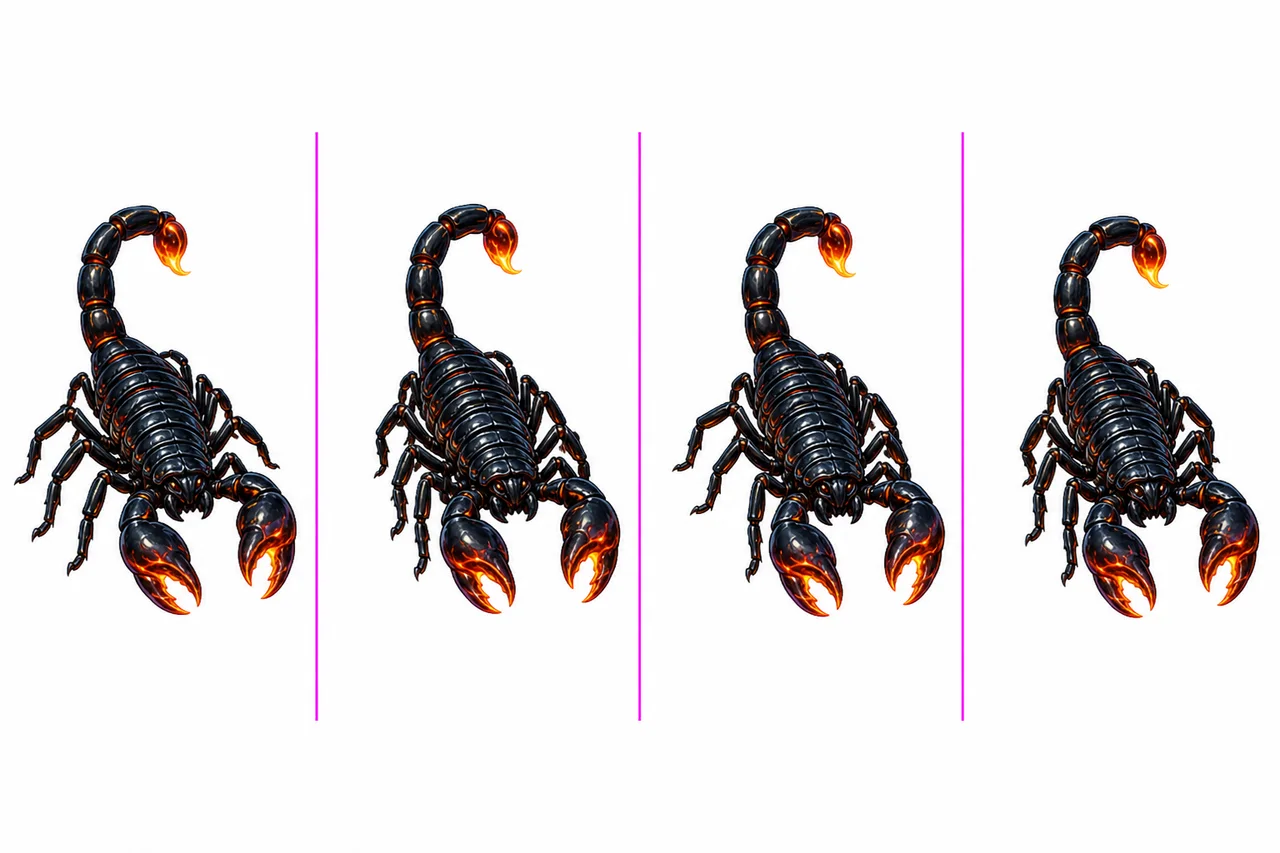
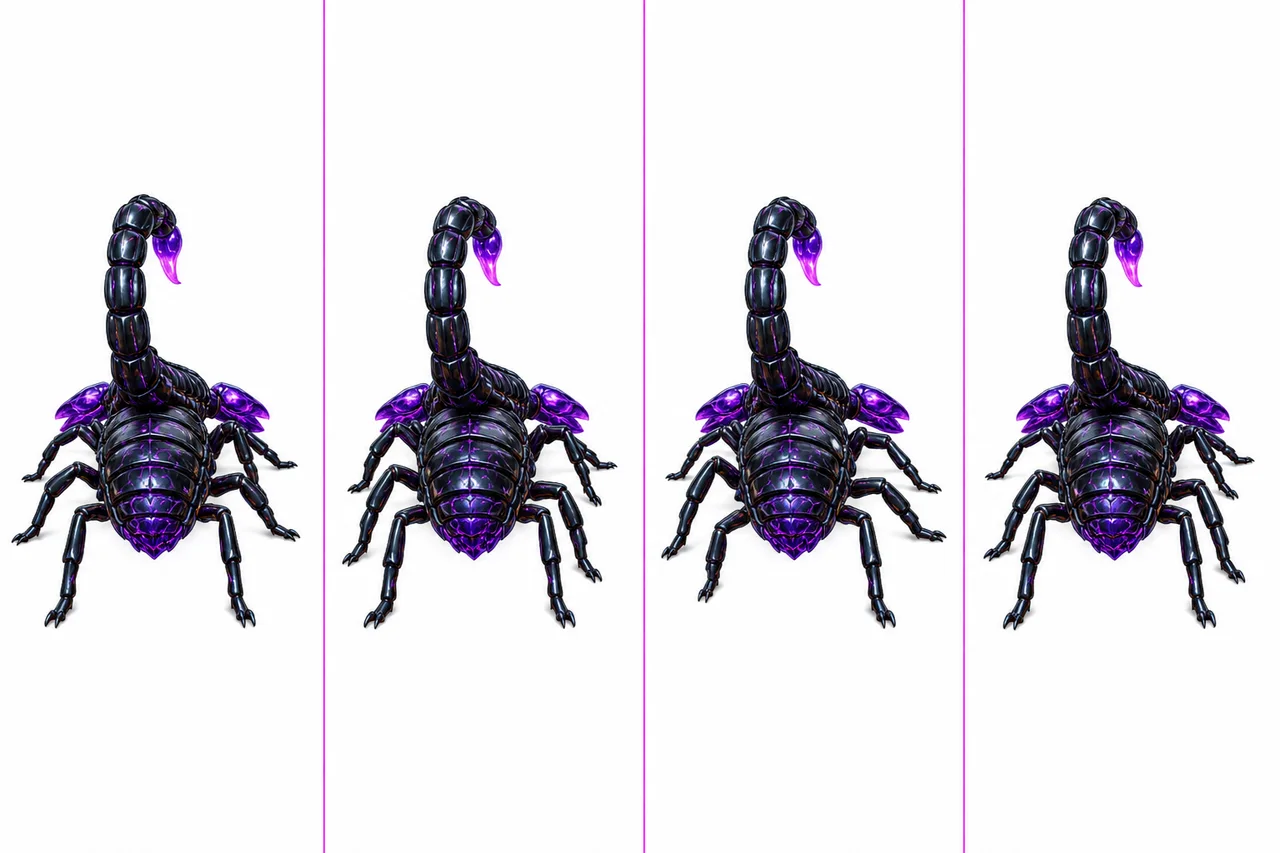
Painted KO collapse frames, scorpion rear-view fix, smoother battle motion, pond immersion

Changed region(s): [[0.0, 0.1524, 1.0, 0.8535]]

diff --git a/src/render.ts b/src/render.ts
@@ -103,6 +103,8 @@ interface DisplayUnit {
   /** Directional view with hysteresis — Clash-style marching art. */
   dir: ViewDir;
   dirHold: number;
+  /** Water immersion 0–1: how deep the legs sit below the pond surface. */
+  wet: number;
   atk?: AttackAnim;
   jig?: Jiggle;
 }
@@ -1139,18 +1141,29 @@ export class Renderer {
           // theirs toward it.
           dir: u.owner === this.localSeat ? 'up' : 'down',
           dirHold: 0,
+          wet: 0,
         };
         this.display.set(u.id, d);
       }
       d.age += dt;
 
-      // CR-style constant-velocity interpolation across the tick window:
-      // px,py -> x,y at the exact sim pace, so motion glides with zero
-      // rubber-banding. Teleports (spawn repositions) snap via the same path.
+      // CR-style constant-velocity interpolation across the tick window
+      // (px,py -> x,y at the exact sim pace), then a light exponential
+      // smoothing pass on top: per-tick steering corrections stop reading
+      // as micro-jerks and paths round off into continuous curves.
       // Uses the render clock so hit-stop freezes motion too.
       const tickK = clamp((this.tickClock * 1000) / TICK_MS, 0, 1);
-      d.dx = lerp(u.px, u.x, tickK);
-      d.dy = lerp(u.py, u.y, tickK);
+      const wantX = lerp(u.px, u.x, tickK);
+      const wantY = lerp(u.py, u.y, tickK);
+      if (Math.hypot(wantX - d.dx, wantY - d.dy) > 1.6) {
+        // Teleports (spawn repositions, corrections) snap.
+        d.dx = wantX;
+        d.dy = wantY;
+      } else {
+        const sk = 1 - Math.exp(-dt * 13);
+        d.dx += (wantX - d.dx) * sk;
+        d.dy += (wantY - d.dy) * sk;
+      }
       const stepX = u.x - u.px;
       const stepY = u.y - u.py;
       const stepLen = Math.hypot(stepX, stepY);
@@ -1244,6 +1257,25 @@ export class Renderer {
 
       const p = this.worldToScreen(d.dx, d.dy);
       const hover = flying ? -this.unit * 0.55 - Math.sin(this.time * 2.2 + u.id) * 3 : 0;
+
+      // Pond immersion. Walking animals wading into the oasis pond sink:
+      // shallow rim wets the paws, and the deeper the water (toward the
+      // pond's centre) the further the legs disappear below the surface.
+      // The depth value eases so shorelines never pop.
+      const world: WorldId = st.phase === 'oasis' || st.phase === 'ended' ? 'oasis' : 'basalt';
+      let wetTarget = 0;
+      if (!flying && world === 'oasis') {
+        const c = cellAt(world, d.dx, d.dy);
+        if (c === CELL.SHALLOW || c === CELL.DEEP) {
+          const centerness = clamp(
+            1 - Math.hypot(d.dx - WORLD_W / 2, d.dy - WORLD_H / 2) / 2.6, 0, 1,
+          );
+          wetTarget = (c === CELL.DEEP ? 0.62 : 0.3) + centerness * 0.38;
+        }
+      }
+      const wasWet = d.wet > 0.06;
+      d.wet += (wetTarget - d.wet) * clamp(dt * 4.5, 0, 1);
+      const isWet = d.wet > 0.06;
       // Clash-style depth: actors shrink slightly toward the far end of the
       // field and grow toward the near edge, selling the 3/4 camera.
       const depthK = clamp((p.y - this.oy) / Math.max(1, WORLD_H * this.unit), 0, 1);
@@ -1253,6 +1285,15 @@ export class Renderer {
       const popT = clamp(d.age / 0.45, 0, 1);
       const pb = popT - 1;
       const pop = 1 + 2.70158 * pb * pb * pb + 1.70158 * pb * pb;
+
+      // Entry splash: the moment paws break the surface, water leaps.
+      if (isWet && !wasWet && wetTarget > 0) {
+        const wl = p.y + this.unit * 0.13;
+        this.burst(p.x, wl, 12, 'spark', 197, 1.15);
+        this.burst(p.x, wl, 5, 'bubble', 192, 0.8);
+        this.burst(p.x, wl, 2, 'ripple', 195, 0.6);
+        this.burst(p.x, wl - 2, 4, 'mist', 195, 0.9);
+      }
 
       const stealthAlpha = u.stealthed ? (u.owner === this.localSeat ? 0.45 : 0.08) : 1;
       const mineUnit = u.owner === this.localSeat;
@@ -1268,7 +1309,8 @@ export class Renderer {
       ctx.ellipse(p.x, p.y + this.unit * 0.14, s * 0.75 * pop, s * 0.28 * pop, 0, 0, Math.PI * 2);
       ctx.stroke();
       const stride = moving && !flying ? Math.abs(Math.sin(d.runPhase * Math.PI * 0.5)) : 0;
-      ctx.fillStyle = `rgba(0,0,0,${flying ? 0.24 : 0.36 + stride * 0.06})`;
+      // In water the contact shadow gives way to the surface disturbance.
+      ctx.fillStyle = `rgba(0,0,0,${(flying ? 0.24 : 0.36 + stride * 0.06) * (1 - d.wet * 0.75)})`;
       ctx.beginPath();
       ctx.ellipse(
         p.x, p.y + this.unit * 0.15,
@@ -1277,17 +1319,22 @@ export class Renderer {
       );
       ctx.fill();
 
-      // Dust kicked up at the feet while running — the ground answers the
-      // stride, which sells actual contact (grey ash on basalt, green-brown
-      // scuff in the oasis).
+      // The ground answers the stride, which sells actual contact: dry land
+      // kicks up dust (grey ash on basalt, green-brown scuff in the oasis);
+      // wading throws droplets and drags ripple rings off each step.
       if (moving && !flying && Math.random() < 0.35) {
-        const world = st.phase === 'oasis' || st.phase === 'transition' ? 'oasis' : 'basalt';
         const back = (this.localSeat === 1 ? -stepX : stepX) / stepLen;
-        this.burst(
-          p.x - back * s * 0.4 + (Math.random() - 0.5) * s * 0.3,
-          p.y + this.unit * 0.12,
-          1, 'ash', world === 'basalt' ? 30 : 95, 0.32,
-        );
+        const fx = p.x - back * s * 0.4 + (Math.random() - 0.5) * s * 0.3;
+        if (isWet) {
+          this.burst(fx, p.y + this.unit * 0.13, 1, 'spark', 197, 0.45 + d.wet * 0.4);
+          if (Math.random() < 0.5) this.burst(fx, p.y + this.unit * 0.13, 1, 'ripple', 195, 0.5);
+          if (Math.random() < 0.25) this.burst(fx, p.y + this.unit * 0.12, 1, 'bubble', 192, 0.5);
+        } else {
+          this.burst(fx, p.y + this.unit * 0.12, 1, 'ash', world === 'basalt' ? 30 : 95, 0.32);
+        }
+      } else if (isWet && !flying && Math.random() < 0.04) {
+        // Even standing still, the pond laps gently around the body.
+        this.burst(p.x + (Math.random() - 0.5) * s * 0.5, p.y + this.unit * 0.13, 1, 'ripple', 195, 0.4);
       }
 
       const framePair = this.pickFrames(u.species, d, moving, flying);
@@ -1306,13 +1353,19 @@ export class Renderer {
       ac.clearRect(0, 0, size, size);
       if (frame && framePair) {
         const targetH = spriteHeight(s, u.species, stats.colossal, stats.heavy);
+        // Wading: the body settles below the surface plane in proportion to
+        // the water depth (with a slow buoyant bob), and everything under
+        // the waterline is cut away — the pond itself hides the legs.
+        const sinkPx = d.wet > 0.01
+          ? d.wet * targetH * 0.24 + Math.sin(this.time * 2.6 + u.id * 1.3) * d.wet * s * 0.03
+          : 0;
         const drawFrame = (f: Sprite, alpha: number) => {
           const scale = targetH / f.h;
           ac.globalAlpha = alpha;
           ac.drawImage(
             f.canvas,
             pad - f.anchorX * scale,
-            pad + s * 0.55 - f.anchorY * scale,
+            pad + s * 0.55 - f.anchorY * scale + sinkPx,
             f.canvas.width * scale,
             f.canvas.height * scale,
           );
@@ -1324,6 +1377,10 @@ export class Renderer {
           drawFrame(framePair.b, framePair.mix);
         } else {
           drawFrame(framePair.a, 1);
+        }
+        if (sinkPx > 0.5) {
+          const waterY = Math.round(pad + s * 0.55) + 1;
+          ac.clearRect(0, waterY, size, size - waterY);
         }
         ac.globalAlpha = 1;
       } else {
@@ -1344,7 +1401,10 @@ export class Renderer {
         tc.fillRect(0, 0, size, size);
       }
 
-      ctx.translate(p.x, p.y + hover - s * 0.55);
+      // Ground units plant their feet at the shadow's centre — the sprite's
+      // bottom anchor lands on the contact ellipse, never floating above it.
+      const groundDrop = flying ? 0 : this.unit * 0.13;
+      ctx.translate(p.x, p.y + hover - s * 0.55 + groundDrop);
 
       const view: ViewDir = framePair?.view ?? 'side';
 
@@ -1434,6 +1494,36 @@ export class Renderer {
         ctx.globalAlpha = stealthAlpha;
       }
       ctx.restore();
+
+      // Waterline: a bright foam collar hugging the body where it meets the
+      // surface, wobbling with the wading motion, plus a soft cool sheen
+      // just below so the submerged legs read as UNDER the water.
+      if (isWet && !flying) {
+        const wl = p.y + this.unit * 0.13;
+        const bodyW = s * (0.5 + d.wet * 0.22);
+        const wob = Math.sin(this.time * 5.2 + u.id * 2.1) * s * 0.02
+          + (moving ? Math.sin(d.runPhase * Math.PI) * s * 0.025 : 0);
+        ctx.save();
+        ctx.globalAlpha = stealthAlpha;
+        const sheen = ctx.createRadialGradient(p.x, wl + 2, 1, p.x, wl + 2, bodyW * 1.3);
+        sheen.addColorStop(0, `hsla(192 70% 62% / ${0.16 + d.wet * 0.1})`);
+        sheen.addColorStop(1, 'hsla(195 70% 55% / 0)');
+        ctx.fillStyle = sheen;
+        ctx.beginPath();
+        ctx.ellipse(p.x, wl + 2, bodyW * 1.3, bodyW * 0.42, 0, 0, Math.PI * 2);
+        ctx.fill();
+        ctx.strokeStyle = `hsla(190 60% 92% / ${0.4 + d.wet * 0.25})`;
+        ctx.lineWidth = 1.6 + d.wet;
+        ctx.beginPath();
+        ctx.ellipse(p.x, wl + wob * 0.4, bodyW + wob, (bodyW + wob) * 0.3, 0, 0, Math.PI * 2);
+        ctx.stroke();
+        ctx.strokeStyle = `hsla(190 55% 85% / ${0.2 + d.wet * 0.15})`;
+        ctx.lineWidth = 1;
+        ctx.beginPath();
+        ctx.ellipse(p.x, wl + 1.5 - wob * 0.4, (bodyW + wob) * 1.28, (bodyW + wob) * 0.36, 0, 0, Math.PI * 2);
+        ctx.stroke();
+        ctx.restore();
+      }
 
       // Status FX.
       if (u.buffs.burnStacks > 0 && Math.random() < 0.3) {

diff --git a/src/sprites.ts b/src/sprites.ts
@@ -35,6 +35,8 @@ export interface AnimSet {
   up?: Sprite[];
   /** 3/4 front view — marching toward the camera (down the field). */
   down?: Sprite[];
+  /** Duels defeat: 4-frame side-profile collapse (standing -> lying down). */
+  ko?: Sprite[];
 }
 
 /* ------------------------------------------------------------------------ */
@@ -69,22 +71,20 @@ const PORTRAIT_META: Record<SpeciesId, PortraitMeta> = {
  *  mid-chomp). */
 const ANIM_FILES: Record<SpeciesId, {
   run: string; attack: string; swat?: string; attackFacing?: 1 | -1;
-  up: string; down: string;
-  /** Play the run cycle in reverse — fixes gaits painted moonwalking. */
-  runReverse?: boolean;
+  up: string; down: string; ko: string;
 }> = {
-  trex: { run: 'trex-run', attack: 'trex-attack', attackFacing: -1, up: 'trex-up', down: 'trex-down' },
-  lion: { run: 'lion-run', attack: 'lion-attack', up: 'lion-up', down: 'lion-down' },
-  eagle: { run: 'eagle-run', attack: 'eagle-attack', up: 'eagle-up', down: 'eagle-down' },
-  honeybadger: { run: 'honeybadger-run', attack: 'honeybadger-attack', up: 'honeybadger-up', down: 'honeybadger-down' },
-  scorpion: { run: 'scorpion-run', attack: 'scorpion-attack', runReverse: true, up: 'scorpion-up', down: 'scorpion-down' },
-  fireants: { run: 'fireants-run', attack: 'fireants-attack', up: 'fireants-up', down: 'fireants-down' },
-  bear: { run: 'bear-run', attack: 'bear-attack', swat: 'bear-swat', up: 'bear-up', down: 'bear-down' },
-  bighorn: { run: 'bighorn-run', attack: 'bighorn-attack', up: 'bighorn-up', down: 'bighorn-down' },
-  bees: { run: 'bees-run', attack: 'bees-attack', up: 'bees-up', down: 'bees-down' },
-  wolves: { run: 'wolf-run', attack: 'wolf-attack', up: 'wolf-up', down: 'wolf-down' },
-  porcupine: { run: 'porcupine-run', attack: 'porcupine-attack', up: 'porcupine-up', down: 'porcupine-down' },
-  beetles: { run: 'beetle-run', attack: 'beetle-attack', attackFacing: -1, up: 'beetle-up', down: 'beetle-down' },
+  trex: { run: 'trex-run', attack: 'trex-attack', attackFacing: -1, up: 'trex-up', down: 'trex-down', ko: 'trex-ko' },
+  lion: { run: 'lion-run', attack: 'lion-attack', up: 'lion-up', down: 'lion-down', ko: 'lion-ko' },
+  eagle: { run: 'eagle-run', attack: 'eagle-attack', up: 'eagle-up', down: 'eagle-down', ko: 'eagle-ko' },
+  honeybadger: { run: 'honeybadger-run', attack: 'honeybadger-attack', up: 'honeybadger-up', down: 'honeybadger-down', ko: 'honeybadger-ko' },
+  scorpion: { run: 'scorpion-run', attack: 'scorpion-attack', up: 'scorpion-up', down: 'scorpion-down', ko: 'scorpion-ko' },
+  fireants: { run: 'fireants-run', attack: 'fireants-attack', up: 'fireants-up', down: 'fireants-down', ko: 'fireants-ko' },
+  bear: { run: 'bear-run', attack: 'bear-attack', swat: 'bear-swat', up: 'bear-up', down: 'bear-down', ko: 'bear-ko' },
+  bighorn: { run: 'bighorn-run', attack: 'bighorn-attack', up: 'bighorn-up', down: 'bighorn-down', ko: 'bighorn-ko' },
+  bees: { run: 'bees-run', attack: 'bees-attack', up: 'bees-up', down: 'bees-down', ko: 'bees-ko' },
+  wolves: { run: 'wolf-run', attack: 'wolf-attack', up: 'wolf-up', down: 'wolf-down', ko: 'wolf-ko' },
+  porcupine: { run: 'porcupine-run', attack: 'porcupine-attack', up: 'porcupine-up', down: 'porcupine-down', ko: 'porcupine-ko' },
+  beetles: { run: 'beetle-run', attack: 'beetle-attack', attackFacing: -1, up: 'beetle-up', down: 'beetle-down', ko: 'beetle-ko' },
 };
 
 const SPRITES = new Map<SpeciesId, Sprite[]>(); // portraits (wolves: 2)
@@ -538,18 +538,18 @@ export function loadSprites(baseUrl = './art/'): Promise<void> {
       ...species.map(async (sp) => {
         const files = ANIM_FILES[sp];
         try {
-          const [runImg, atkImg, swatImg, upImg, downImg] = await Promise.all([
+          const [runImg, atkImg, swatImg, upImg, downImg, koImg] = await Promise.all([
             loadImage(`${baseUrl}anim/${files.run}.webp`),
             loadImage(`${baseUrl}anim/${files.attack}.webp`),
             files.swat ? loadImage(`${baseUrl}anim/${files.swat}.webp`) : Promise.resolve(null),
             loadImage(`${baseUrl}anim/${files.up}.webp`).catch(() => null),
             loadImage(`${baseUrl}anim/${files.down}.webp`).catch(() => null),
+            loadImage(`${baseUrl}anim/${files.ko}.webp`).catch(() => null),
           ]);
           // The run set defines the species' reference scale; attack/swat
           // sets are area-matched against it so the animal never changes
           // size when it switches animation.
           const runFrames = splitStrip(runImg, 4);
-          if (files.runReverse) runFrames.reverse();
           const runH = Math.max(...runFrames.map((f) => f.height));
           const runArea = meanContentArea(runFrames);
           const crossH = (frames: HTMLCanvasElement[]): number =>
@@ -570,6 +570,13 @@ export function loadSprites(baseUrl = './art/'): Promise<void> {
           if (downImg) {
             const downFrames = splitStrip(downImg, 4);
             set.down = toFrameSprites(downFrames, 0.03, crossH(downFrames));
+          }
+          if (koImg) {
+            const koFrames = splitStrip(koImg, 4);
+            // KO frames must NOT share a logical height: each pose is
+            // anchored at its own bottom so the body visibly sinks. But they
+            // do share the run set's scale via per-frame area matching.
+            set.ko = koFrames.map((f) => toFrameSprites([f], 0.02, crossH([f]))[0]);
           }
           ANIMS.set(sp, set);
         } catch (err) {

diff --git a/src/duel-stage.ts b/src/duel-stage.ts
@@ -584,7 +584,11 @@ export class DuelStage {
   }
 
   private fighterPx(f: FighterVis): { x: number; y: number } {
-    const fly = FLYERS.has(f.species) ? -this.H * 0.1 : 0;
+    let fly = FLYERS.has(f.species) ? -this.H * 0.1 : 0;
+    // A KO'd flyer drops out of its hover onto the ground.
+    if (fly !== 0 && (f.mode === 'ko' || f.mode === 'gone')) {
+      fly *= 1 - clamp01(f.animT / 0.55);
+    }
     return { x: this.W * f.homeX + f.x, y: this.groundY() + f.y + fly };
   }
 
@@ -904,13 +908,20 @@ export class DuelStage {
           this.onImpact?.(F.species, false, true);
           this.onEventApplied?.(ev);
         });
-        // The defeated champion SLUMPS: knees buckle and the body sinks
-        // straight down into itself with a slight head bow — no stiff
-        // tip-over. A dust puff answers the moment the body settles.
-        const k = ph(t, 0.1, 0.85);
-        F.rot = F.face * easeOut(k) * 0.22;
-        F.squash = easeOut(k) * 0.52;
-        F.y = easeIn(k) * this.H * 0.012;
+        // The defeated champion COLLAPSES via painted KO frames — legs
+        // buckle, chest drops, body lies down (never deflates). Species
+        // without a KO sheet fall back to a gentle procedural slump.
+        const hasKo = !!getAnim(F.species)?.ko?.length;
+        if (hasKo) {
+          F.rot = 0;
+          F.squash = 0;
+          F.y = 0;
+        } else {
+          const k = ph(t, 0.1, 0.85);
+          F.rot = F.face * easeOut(k) * 0.2;
+          F.squash = easeOut(k) * 0.3;
+          F.y = easeIn(k) * this.H * 0.012;
+        }
         this.fire(step, 'settle', 0.8, () => {
           const p = this.fighterPx(F);
           this.dustBurst(p.x, this.groundY(), 10);
@@ -1233,6 +1244,17 @@ export class DuelStage {
     if (!anim || anim.run.length === 0) {
       const p = getSprite(f.species);
       return p ? { a: p, b: null, mix: 0 } : null;
+    }
+    if (f.mode === 'ko' && anim.ko && anim.ko.length > 0) {
+      // Painted collapse: sweep through the KO frames over ~1.1s with a
+      // short crossfade between poses, then hold the final lying pose.
+      const n = anim.ko.length;
+      const k = clamp01((f.animT - 0.06) / 1.05) * (n - 1);
+      const i = Math.min(n - 1, Math.floor(k));
+      const j = Math.min(n - 1, i + 1);
+      const frac = k - i;
+      const mix = frac * frac * (3 - 2 * frac);
+      return { a: anim.ko[i], b: j > i && mix > 0.02 ? anim.ko[j] : null, mix };
     }
     if (f.mode === 'attack') {
       // Beetles only show the acid-spray art during their special — normal